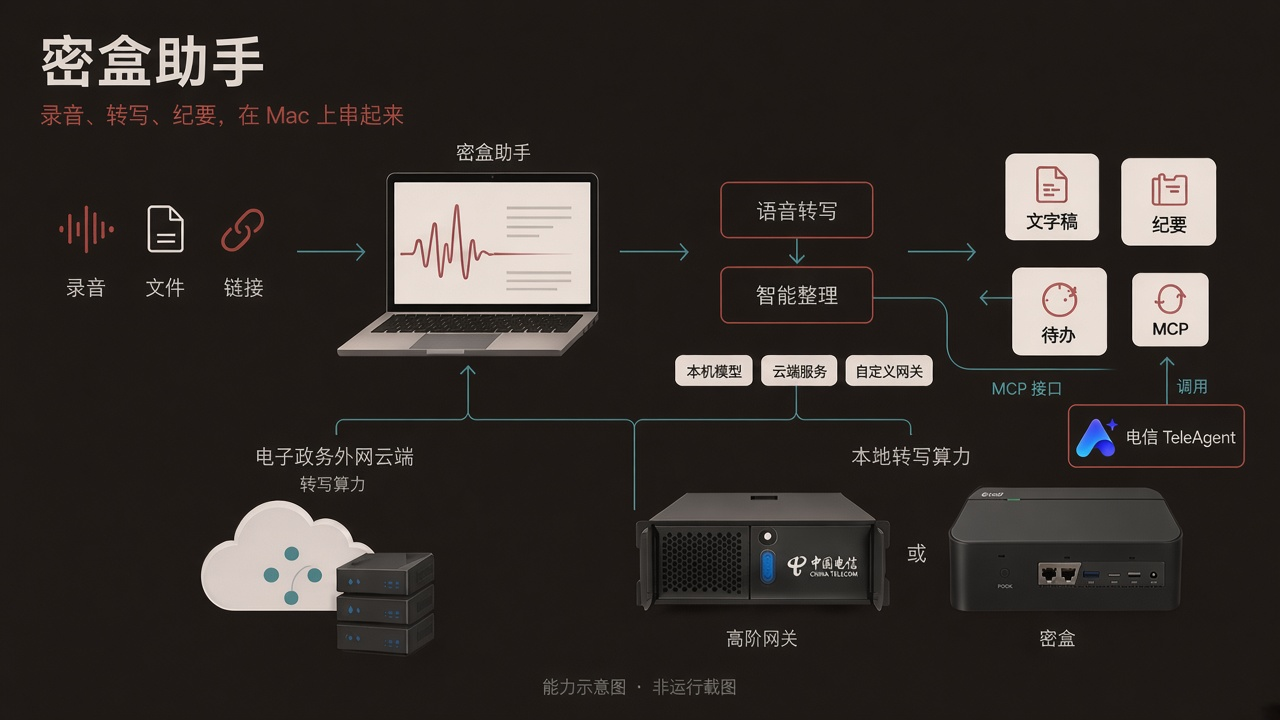
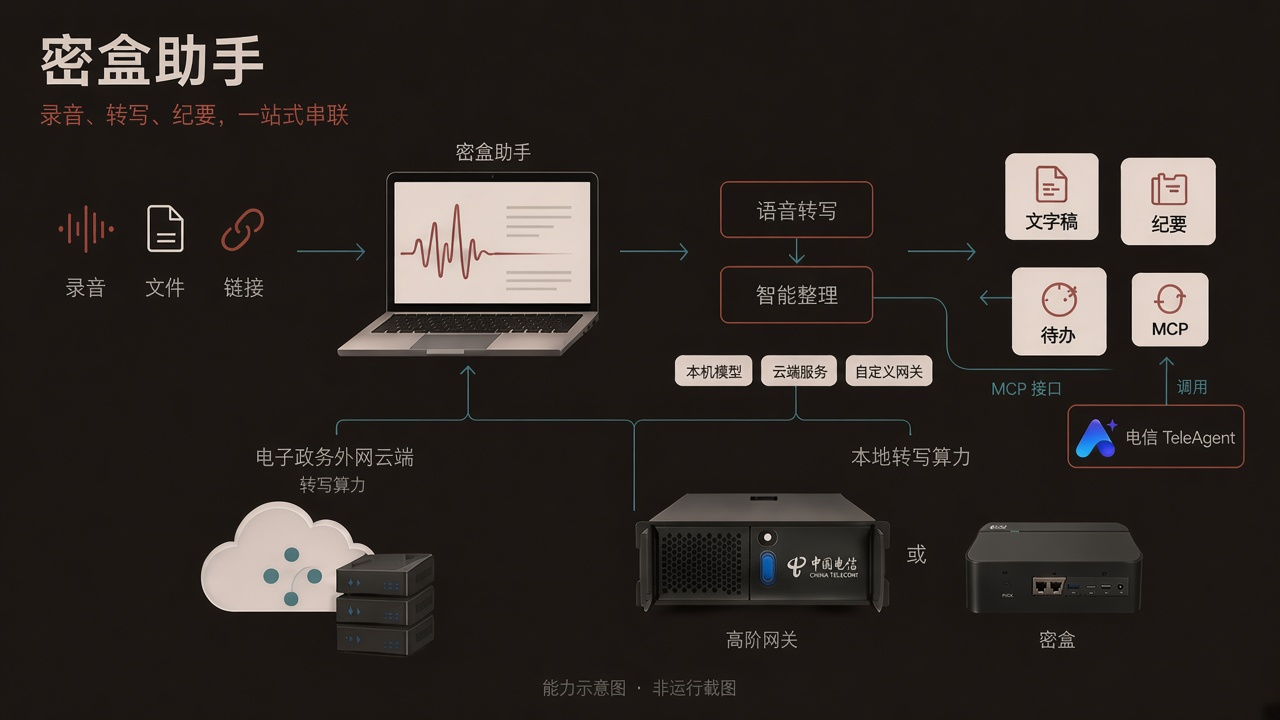
更换首页主图，副标题改为平台中性
密盒按电视盒子大小画小，高阶网关不变。图上不再写系统支持状态。紧邻主图的一句话改为录音、转写、纪要串在一起，快速开始仍要求 macOS。

diff --git a/README.en.md b/README.en.md
@@ -4,11 +4,11 @@
 
 [![macOS 26](https://img.shields.io/badge/macOS-26-black)](#quick-start) [![MIT](https://img.shields.io/badge/license-MIT-green)](LICENSE)
 
-Mi Box Assistant is a Mac app that keeps a local library of recordings, turns them into text and notes, and lets you query that library yourself or through MCP. Local models, Apple speech recognition, cloud services, and a user-supplied HTTP gateway are separate choices. Audio or text leaves the Mac only on the paths you enable.
+Mi Box Assistant ties recording, transcription, and notes together: recordings go into a local library, and you can query them in the app or through MCP. Local models, system speech recognition, cloud services, and a user-supplied HTTP gateway are separate choices. Audio or text leaves the computer only on the paths you enable.
 
 ![Capability diagram: recordings, files, and links enter Mi Box Assistant. Transcription compute is shown as either an e-government extranet cloud or local hardware: a rack-mounted advanced gateway and a small square Mi Box. China Telecom TeleAgent calls the local results through MCP.](docs/assets/mibox-assistant-hero.jpg)
 
-This is an AI-generated capability diagram, not a screenshot of the running app. The same Chinese artwork is used here, and it is labeled as a diagram. Recordings, files, and links enter the Mac app, then go through transcription and notes. The e-government extranet cloud, the rack-mounted gateway, and the square Mi Box are optional deployment sketches specified for this picture: transcription compute may sit in that cloud or on either local device. This repository has not verified a particular government network or these devices in production, and it states no bandwidth or certification figures. In the app, the matching control is an OpenAI-compatible URL you fill in. It is not locked to one chassis, and it is not the D3200 recorder. China Telecom TeleAgent on the right is an MCP client, not another recording protocol.
+This is an AI-generated capability diagram, not a screenshot of the running app. The same Chinese artwork is used here, and it is labeled as a diagram. Its subtitle is “录音、转写、纪要，一站式串联” (recording, transcription, and notes, linked in one place). The picture does not say which operating systems are supported. Recordings, files, and links enter Mi Box Assistant, then go through transcription and notes. The e-government extranet cloud, the rack-mounted gateway, and the Mi Box are optional deployment sketches specified for this picture: transcription compute may sit in that cloud or on either local device. The Mi Box is drawn about the size of a TV box, smaller than the rack gateway, whose size is unchanged. This repository has not verified a particular government network or these devices in production, and it states no bandwidth or certification figures. In the app, the matching control is an OpenAI-compatible URL you fill in. It is not locked to one chassis, and it is not the D3200 recorder. China Telecom TeleAgent on the right is an MCP client, not another recording protocol.
 
 ## Promo video
 

diff --git a/README.md b/README.md
@@ -4,11 +4,11 @@
 
 [![macOS 26](https://img.shields.io/badge/macOS-26-black)](#快速开始) [![MIT](https://img.shields.io/badge/license-MIT-green)](LICENSE)
 
-密盒助手是跑在 Mac 上的录音工作台：把录音收进本机库，转成文字和纪要，再用知识库或 MCP 查回来。本机模型、系统识别、云端和自填的「高阶网关」可以分开选；只有选了会外发的那一路，对应的音频或文字才会离开这台 Mac。
+密盒助手把录音、转写和纪要串在一起：录音进本机库，整理之后可以用知识库或 MCP 查回来。本机模型、系统识别、云端和自填的「高阶网关」可以分开选；只有选了会外发的那一路，对应的音频或文字才会离开这台电脑。
 
 ![能力示意图：录音、文件和链接进入密盒助手。转写算力可以来自图中的电子政务外网云端，或来自本地的高阶网关（机架）与密盒（方形小盒）。电信 TeleAgent 经 MCP 调用本机结果。](docs/assets/mibox-assistant-hero.jpg)
 
-这是 AI 生成的能力示意图，不是运行截图，图内已标注。录音、文件、链接进入 Mac 上的密盒助手，再转写、整理。图里的电子政务外网云端，以及本地的高阶网关和密盒，是用户指定的可选部署示意：转写算力可以放在云端，也可以放在这两类本地设备上。本仓库没有验证特定政务网络或这些硬件的实际部署，也不提供带宽或认证数据。软件里对应的是设置中自填的 OpenAI 兼容地址，不绑定某一机型。右侧的电信 TeleAgent 表示经 MCP 调用，不是另一套录音协议。
+这是 AI 生成的能力示意图，不是运行截图，图内已标注。副标题是「录音、转写、纪要，一站式串联」，图上没有写哪个系统已经支持。录音、文件、链接进入密盒助手，再转写、整理。图里的电子政务外网云端，以及本地的高阶网关和密盒，是用户指定的可选部署示意：转写算力可以放在云端，也可以放在这两类本地设备上。密盒按约电视盒子的大小画得比机架式高阶网关小，网关尺寸没有改。本仓库没有验证特定政务网络或这些硬件的实际部署，也不提供带宽或认证数据。软件里对应的是设置中自填的 OpenAI 兼容地址，不绑定某一机型。右侧的电信 TeleAgent 表示经 MCP 调用，不是另一套录音协议。
 
 ## 宣传片
 
